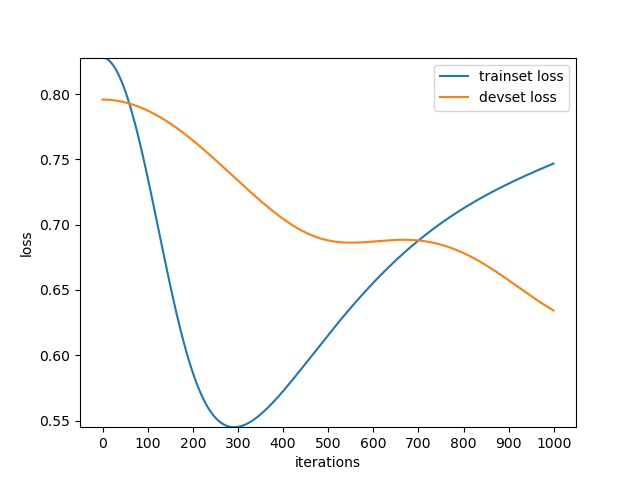
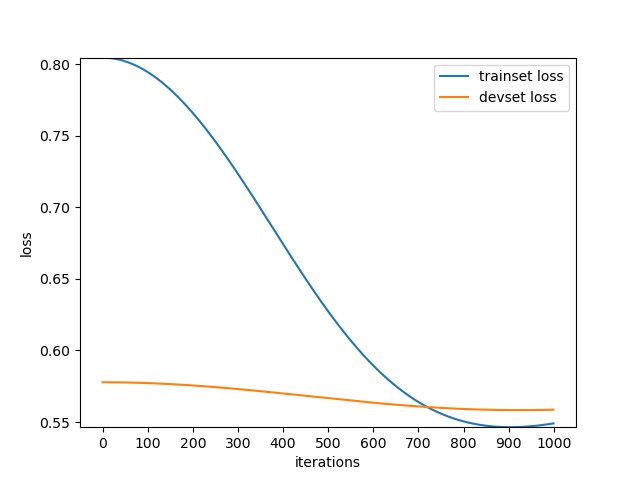
v1.2 final version-update parameters

diff --git a/logistic_regression.py b/logistic_regression.py
@@ -45,7 +45,7 @@ def h_func(_x, _weights):
     return math.e**(np.dot(_x, _weights))/(1.+math.e**(np.dot(_x, _weights)))
 
 
-def gradient_descent(x, y, weights, learning_rate=0.001, max_iter=1000, debug=True, for_train=False):
+def gradient_descent(x, y, weights, learning_rate=0.001, max_iter=1000, debug=True):
     """
     梯度下降逻辑回归，得到权重矩阵
     :param x: vectors_list
@@ -121,7 +121,7 @@ def draw_graph(_loss1, _loss2, _iter):
     y_axis_train = _loss1
     y_axis_dev = _loss2
 
-    x_ticks = [i*100 for i in range(11)]
+    x_ticks = [(_iter//10)*i for i in range(11)]
 
     ax.set_xlabel('iterations')
     ax.set_ylabel('loss')
@@ -137,7 +137,7 @@ def draw_graph(_loss1, _loss2, _iter):
 def fill_testset(_x, _weight):
     pred_labels = pred_classification(_x=_x, _weights=_weight)
 
-    fill_testset = './data/fill-testset.json'
+    fill_testset = './output/fill-testset.json'
     testset_fp = open(file=fill_testset, mode='w+')
     fill_list = []
     vecs_list = []
@@ -159,14 +159,14 @@ def test_gd():
     test_file = './data/testset.json'
 
     acc_path = './output/accuracy.txt'
-    acc_file = open(acc_path, 'w+')
+    acc_file = open(acc_path, 'a+')
 
     train_vectors, train_labels = process_data(_file=train_file, _flag=0)
     dev_vectors, dev_labels = process_data(_file=dev_file, _flag=0)
     test_vectors = process_data(_file=test_file, _flag=1)
 
     # use trainset to get weights matrix
-    lr = 0.001
+    lr = 0.0001
     max_iter = 1000
     m, n = test_vectors.shape
     _weight = np.random.random(n)
@@ -174,12 +174,12 @@ def test_gd():
                                           y=train_labels,
                                           weights=_weight,
                                           learning_rate=lr,
-                                          max_iter=max_iter,
-                                          for_train=True)
+                                          max_iter=max_iter)
+
+    # requirement 2: 给出train训练集和valid验证集的准确率
     pred_labels_train = pred_classification(_x=train_vectors, _weights=weight)
     pred_labels_dev = pred_classification(_x=dev_vectors, _weights=weight)
 
-    # requirement 2: 给出train训练集和valid验证集的准确率
     acc_train = get_acc(old_labels=train_labels, new_labels=pred_labels_train)
     acc_dev = get_acc(old_labels=dev_labels, new_labels=pred_labels_dev)
     print("accuracy of trainset: {:.2%}\naccuracy of devset: {:.2%}\n".format(acc_train, acc_dev))
@@ -196,7 +196,7 @@ def test_gd():
                                         max_iter=max_iter)
     draw_graph(_loss1=loss_train, _loss2=loss_dev, _iter=max_iter)
 
-    # 将testset.json补充完整
+    # requirement 4: 将testset.json补充完整
     fill_testset(_x=test_vectors, _weight=weight)
 
 

diff --git a/README.md b/README.md
@@ -14,4 +14,4 @@
 1. 仅使用numpy矩阵运算库实现
 2. 给出train训练集和valid验证集的准确率：运行后有终端输出和文件输出（./output/accuracy.txt）
 3. 根据每次迭代的loss绘制train和valid的loss曲线图，横坐标为iterations，纵坐标为loss：（./output/loss.jpg）
-4. 完成后请将源代码和补充完整的testset.json一起打包发送到微信群：补充完整的testset.json（./data/fill-testset.json）
+4. 完成后请将源代码和补充完整的testset.json一起打包发送到微信群：补充完整的testset.json（./output/fill-testset.json）
